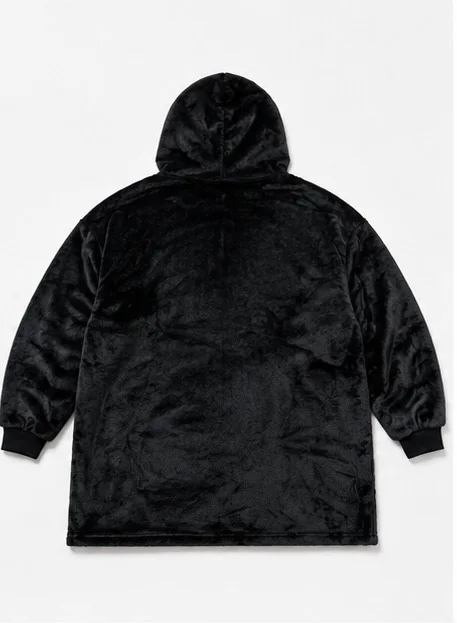
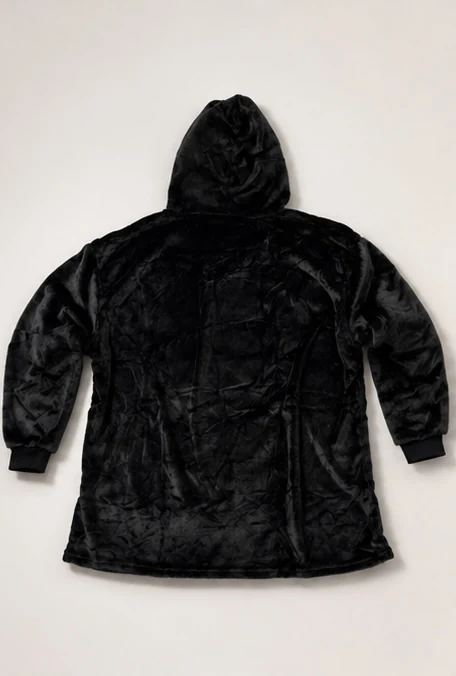
feat: expand black product gallery

diff --git a/components/Hero.tsx b/components/Hero.tsx
@@ -8,7 +8,12 @@ import { useProduct } from "./ProductProvider";
 
 const blackMedia: MediaItem[] = [
   { type: "image", src: "/media/black-model-front.webp", alt: "Modelo usando el buzo térmico negro de frente" },
+  { type: "image", src: "/media/black-model-back.webp", alt: "Modelo usando el buzo térmico negro de espalda" },
   { type: "image", src: "/media/black-flat-front.webp", alt: "Buzo térmico negro extendido de frente" },
+  { type: "image", src: "/media/black-flat-back.webp", alt: "Buzo térmico negro extendido de espalda" },
+  { type: "image", src: "/media/black-neckline-detail.webp", alt: "Detalle del cuello del buzo térmico negro" },
+  { type: "image", src: "/media/black-pocket-cuff-detail.webp", alt: "Detalle del bolsillo y el puño del buzo térmico negro" },
+  { type: "image", src: "/media/black-hood-detail.webp", alt: "Detalle de la capucha del buzo térmico negro" },
   { type: "video", src: "/media/hoodie-360.mp4", poster: "/media/hoodie-360-poster.jpg", title: "Vista 360 del buzo térmico negro" },
 ];
 
